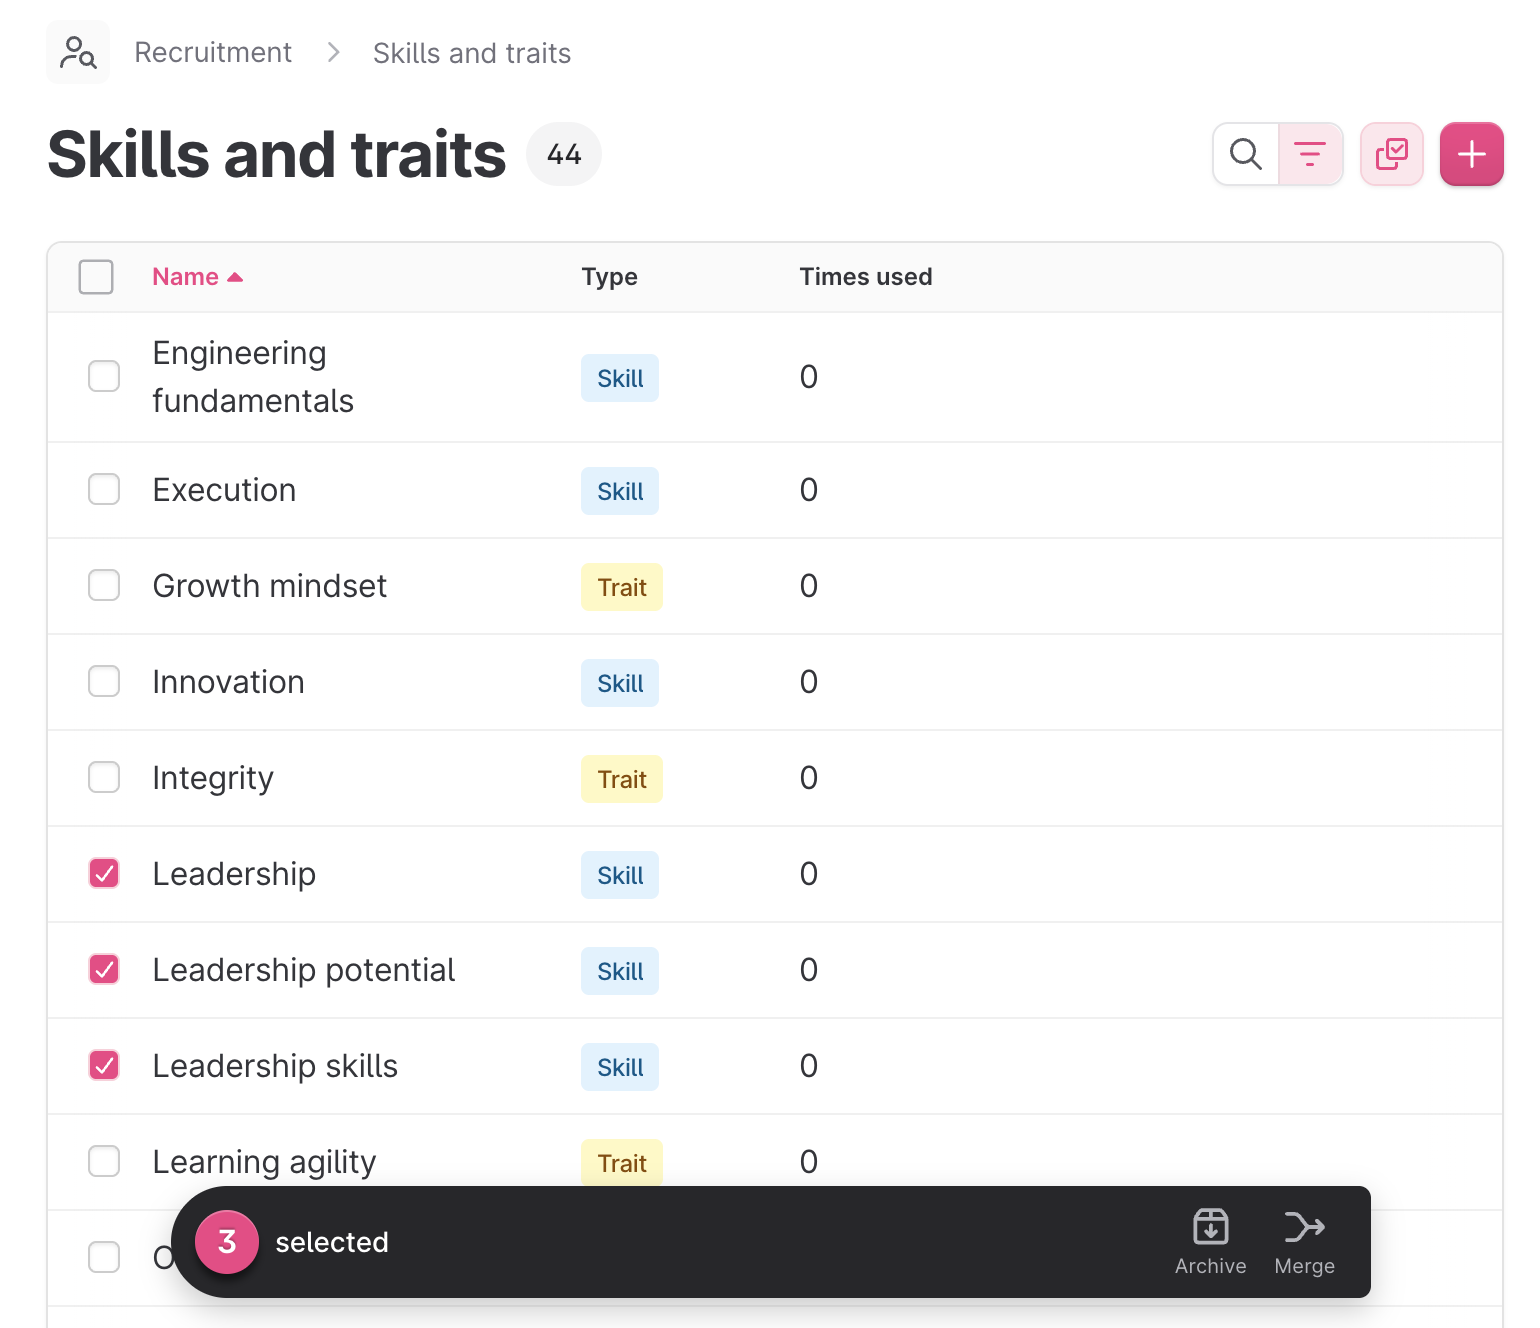
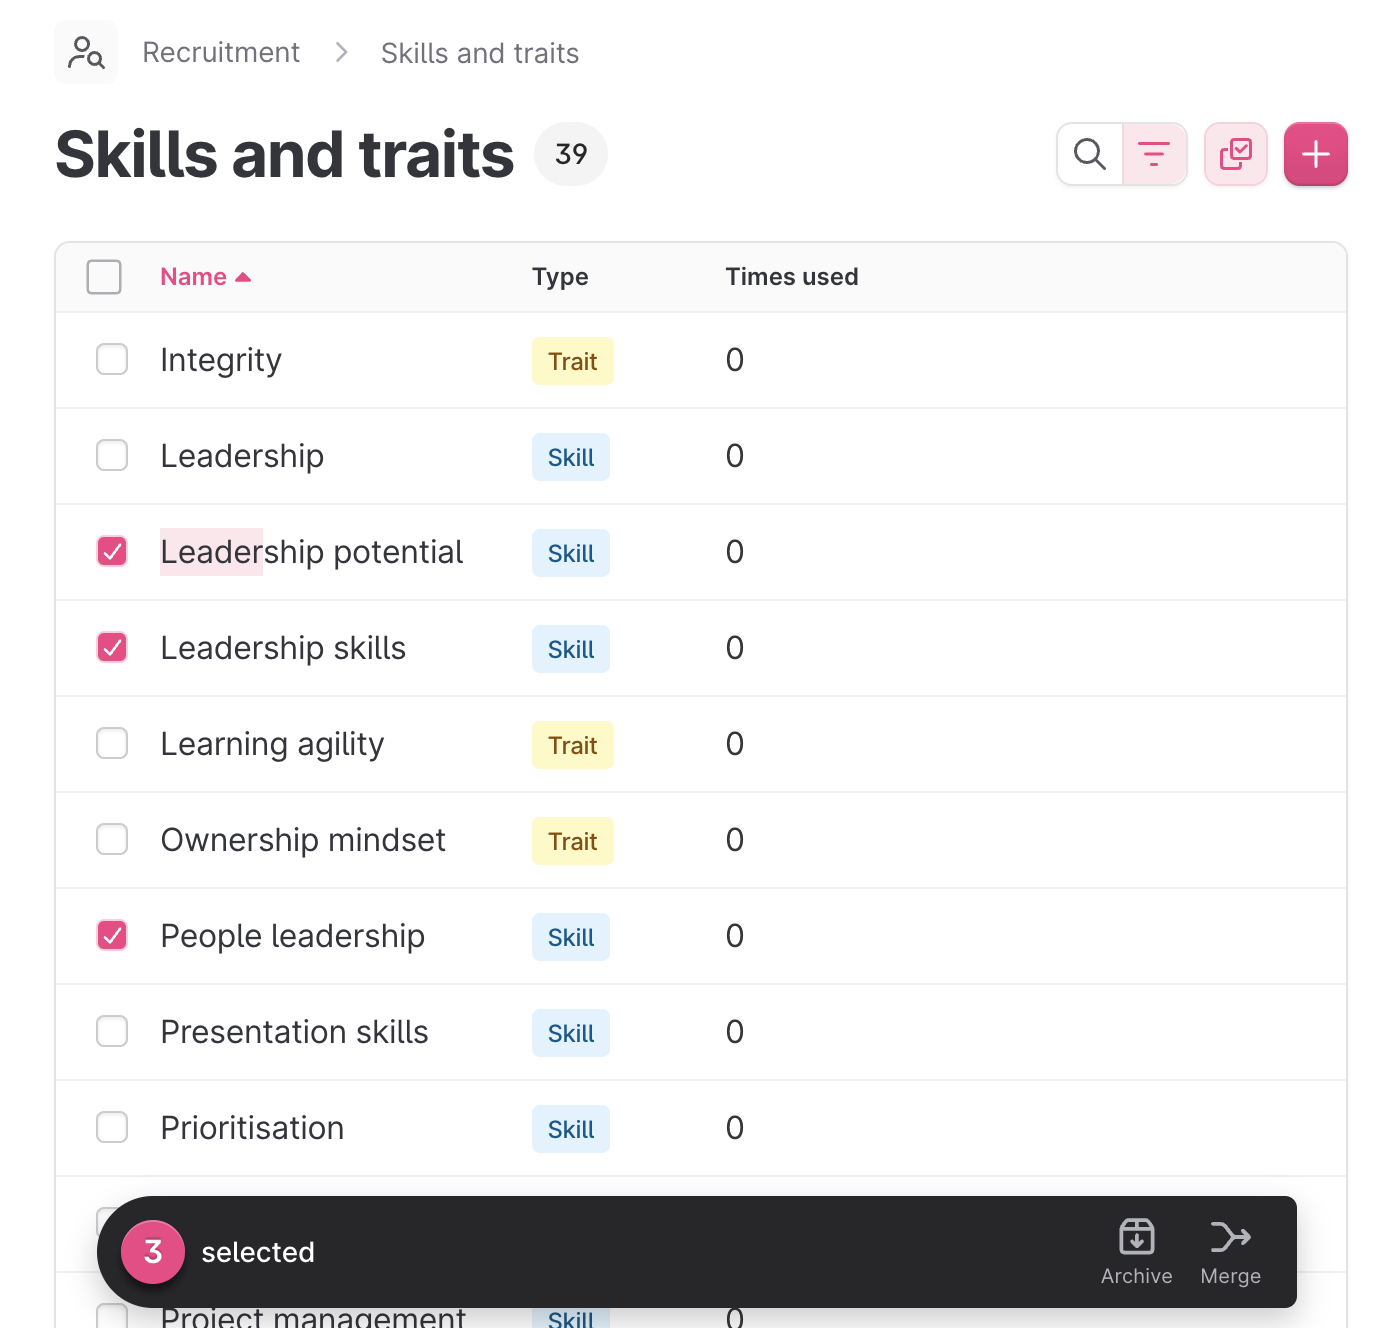
More merge and archive polish 4

diff --git a/presentations/merge-skills-and-traits/index.html b/presentations/merge-skills-and-traits/index.html
@@ -206,7 +206,7 @@
 
         <p class="demo-caption">
           Archived entries live on under the Archived filter. Unarchive any time and they're selectable again —
-          across candidates, roles, jobs, job templates and interview kits — exactly as they were.
+          across candidates, roles, jobs, job templates and interview kits — with their scoring history intact.
         </p>
 
         <p class="speaker-notes">
@@ -397,7 +397,7 @@
     <!-- ================================================================
          Merge demo 3 — the payoff
          ================================================================ -->
-    <section class="slide slide--accent" id="merge-after">
+    <section class="slide slide--dark" id="merge-after">
       <div class="slide-inner">
         <p class="chapter-label">Merge · step 3 of 3</p>
         <h2 class="slide-title">One entry. One honest count.</h2>
@@ -414,8 +414,8 @@
         </figure>
 
         <p class="demo-caption">
-          The three variants are gone. <strong>Leadership</strong> now reads <strong>12</strong> — the exact sum of
-          everything that used to be scattered across four rows.
+          The three variants are gone,
+          everything that used to be scattered across four rows is now whole.
         </p>
 
         <p class="speaker-notes">
@@ -443,14 +443,10 @@
         </p>
 
         <ul class="takeaways" style="margin-top: 1.5rem;">
-          <li><strong>Out of every picker.</strong> Archived entries vanish from candidates, roles, jobs, job templates
-            and interview kits, so scoring only ever offers what you actually use.</li>
-          <li><strong>Nothing destroyed.</strong> Every score and the full history stay attached — unlike delete, which
-            wiped them for good.</li>
-          <li><strong>Fully reversible.</strong> Unarchive any time and the entry comes back exactly as it was. There's
-            no equivalent "undo" for a deletion.</li>
-          <li><strong>Delete, gated.</strong> Permanent deletion is only reachable after archiving — a deliberate speed
-            bump that makes accidental data loss far harder.</li>
+          <li><strong>Out of the way, history intact.</strong> Archived entries leave every picker, but their scores
+            stay attached — unlike delete, which wiped them for good.</li>
+          <li><strong>Reversible, and delete is gated.</strong> Unarchive to bring an entry back, and permanent deletion
+            is now only reachable after archiving — a deliberate speed bump against accidental data loss.</li>
         </ul>
 
         <p class="speaker-notes">
@@ -479,14 +475,11 @@
         </p>
 
         <ul class="takeaways" style="margin-top: 1.5rem;">
-          <li><strong>One clean entry.</strong> Four near-duplicate rows become one in the picker — recruiters stop
-            guessing which "Leadership" to score against.</li>
-          <li><strong>Every record follows.</strong> Scores, picks, questions, candidate competencies and interview-kit
-            order all re-point to the survivor. Deleting the duplicates would have thrown that history away.</li>
-          <li><strong>The count finally adds up.</strong> "Times used" becomes the real combined total, so
-            competency analytics count one thing once instead of fragmenting it across duplicates.</li>
-          <li><strong>Better than leaving it.</strong> Ignoring the mess kept every report skewed; merge is the only
-            tool that makes the numbers honest.</li>
+          <li><strong>One clean entry, every record kept.</strong> Four near-duplicate rows become one, and the scores,
+            picks, questions and candidate competencies all re-point to the survivor — history that deleting would have
+            thrown away.</li>
+          <li><strong>The count finally adds up.</strong> "Times used" becomes the real combined total, so analytics
+            count one competency once instead of fragmenting it across duplicates.</li>
         </ul>
 
         <p class="speaker-notes">
@@ -516,7 +509,8 @@
           <div class="ddd-principle">
             <span class="ddd-principle-icon">🗄</span>
             <h3>Archive is a status flip</h3>
-            <p>The entry's scores stay exactly where they are; only its visibility changes. Reversible by design.</p>
+            <p>The entry's scoring history stays put — the entry just leaves the pickers, and unarchive brings it
+              back.</p>
           </div>
 
           <div class="ddd-principle">
@@ -543,141 +537,89 @@
 
       <nav class="slide-nav">
         <a href="#merge-benefits" class="nav-link">←</a>
-        <a href="#decisions-atomic" class="nav-link">→</a>
+        <a href="#decisions-integrity" class="nav-link">→</a>
       </nav>
     </section>
 
     <!-- ================================================================
-         Data integrity 1 — atomic job
+         Data integrity 1 — why a merge can't lose data
          ================================================================ -->
-    <section class="slide slide--dark" id="decisions-atomic">
+    <section class="slide slide--dark" id="decisions-integrity">
       <div class="slide-inner">
         <p class="chapter-label">Data integrity · 1</p>
-        <h2 class="slide-title">All-or-nothing, by construction</h2>
+        <h2 class="slide-title">Why a merge can't lose data</h2>
         <p class="slide-text">
-          A merge rewrites a lot of rows. If it half-finishes, the library is worse off than before it ran — so the
-          whole thing is one atomic transaction inside a single background job.
+          "Move a skill" is really "move everything attached to it, all at once." The merge is built so that either all
+          of it lands on the survivor, or nothing changes at all.
         </p>
 
         <ul class="takeaways" style="margin-top: 1.5rem;">
-          <li><strong>One transaction.</strong> Every affected record moves, or none do. There is no partial merge to clean up.</li>
-          <li><strong>Deadlock-safe locking.</strong> Rows are locked in a stable id order before any write, so two concurrent merges can never grab the same rows in opposite order.</li>
-          <li><strong>Bounded work.</strong> Capped at 50 sources and 5,000 affected records per merge — large enough for any real library, small enough to keep a worker comfortable. Anything bigger has a documented runbook.</li>
+          <li><strong>All-or-nothing.</strong> The whole merge runs as one transaction — there's never a half-merged
+            library to clean up afterwards.</li>
+          <li><strong>Everything follows the survivor.</strong> Scores, picks, questions, candidate competencies and
+            interview-kit order all re-point to the kept entry before the duplicates are removed.</li>
+          <li><strong>The count is the receipt.</strong> "Times used 12" only adds up if every record made the move — so
+            the number doubles as its own correctness check.</li>
         </ul>
 
         <p class="speaker-notes">
-          The deadlock-ordering detail is the kind of thing that only shows up under concurrency in production. Locking
-          in sorted id order is a small, deliberate choice that quietly removes a class of bug. The caps were tuned
-          down from an earlier, far higher ceiling once we understood the real worker cost.
+          This was the deepest part of the work. Under the hood it's five relation types reassigned inside a single
+          atomic transaction, with rows locked in a stable id order so two concurrent merges can't deadlock, and a
+          product-agreed rule to union conflicting questions onto the survivor rather than drop any. The caps (50
+          sources, 5,000 records) keep a worker comfortable; anything bigger has a runbook. For the audience, the
+          headline is simpler: it either fully works or doesn't run, and the count proves nothing was lost.
         </p>
       </div>
 
       <nav class="slide-nav">
         <a href="#di-principle" class="nav-link">←</a>
-        <a href="#decisions-cascade" class="nav-link">→</a>
-      </nav>
-    </section>
-
-    <!-- ================================================================
-         Data integrity 2 — the cascade
-         ================================================================ -->
-    <section class="slide slide--dark" id="decisions-cascade">
-      <div class="slide-inner">
-        <p class="chapter-label">Data integrity · 2</p>
-        <h2 class="slide-title">Nothing falls through the cracks</h2>
-        <p class="slide-text">
-          A skill isn't one row — it's the hub of a small graph. The merge re-points every spoke to the survivor before
-          the sources are removed.
-        </p>
-
-        <ul class="takeaways" style="margin-top: 1.5rem;">
-          <li><strong>Five relation types reassigned</strong> — scorecard picks, scores, candidate competencies, interview-kit ordering, and the questions attached to each criterium.</li>
-          <li><strong>Questions union onto the survivor.</strong> When sources carry conflicting questions, the product rule is to keep them all on the winner rather than silently dropping any — a decision settled with product, not invented in code.</li>
-          <li><strong>The count is the receipt.</strong> "Times used 12" is only correct if every spoke followed the merge. The number doubling as a correctness check is why the demo lands.</li>
-        </ul>
-
-        <p class="speaker-notes">
-          This was the deepest part of the work. "Move a skill" sounds like one update; it's five relationships with
-          their own edge cases, plus a product call on conflicting questions. Getting the union rule pinned down with
-          product up front is why there was no guesswork in the implementation.
-        </p>
-      </div>
-
-      <nav class="slide-nav">
-        <a href="#decisions-atomic" class="nav-link">←</a>
         <a href="#decisions-safety" class="nav-link">→</a>
       </nav>
     </section>
 
     <!-- ================================================================
-         Data integrity 3 — tenant safety + guards
+         Data integrity 2 — safe to switch on for everyone
          ================================================================ -->
     <section class="slide slide--dark" id="decisions-safety">
       <div class="slide-inner">
-        <p class="chapter-label">Data integrity · 3</p>
-        <h2 class="slide-title">Safe to expose, hard to misuse</h2>
+        <p class="chapter-label">Data integrity · 2</p>
+        <h2 class="slide-title">Safe to switch on for everyone</h2>
 
         <div class="ddd-principles">
           <div class="ddd-principle">
             <span class="ddd-principle-icon">🏢</span>
-            <h3>Tenant-safe by design</h3>
-            <p>The job re-scopes the source ids to the company at run time, so a crafted id from another tenant simply isn't in scope to delete. Cross-tenant damage is unreachable, not just unlikely.</p>
+            <h3>Stays inside the company</h3>
+            <p>A merge can only ever touch one customer's own data — reaching another tenant's entries isn't possible,
+              not just unlikely.</p>
           </div>
 
           <div class="ddd-principle">
             <span class="ddd-principle-icon">🚫</span>
             <h3>Guard rails</h3>
-            <p>A self-merge guard, and an active-into-active rule — a late product change means you unarchive before you merge, so an archived entry can't be revived as a side effect.</p>
+            <p>You can't merge an entry into itself, and archived entries must be unarchived first — so nothing gets
+              revived or merged by accident.</p>
           </div>
 
           <div class="ddd-principle">
-            <span class="ddd-principle-icon">🔐</span>
-            <h3>Gated rollout</h3>
-            <p>A Flipper flag plus a policy check that reuses the existing destroy permission — no new permission surface to reason about, and a clean on/off switch for release.</p>
+            <span class="ddd-principle-icon">📝</span>
+            <h3>Audited &amp; gated</h3>
+            <p>Every merge is written to the audit trail, and the whole feature sits behind a flag for a controlled,
+              reversible rollout.</p>
           </div>
         </div>
 
         <p class="speaker-notes">
-          The tenant-safety framing is the one to dwell on: it's not "we validate ownership," it's "the dangerous
-          operation can't see another tenant's rows in the first place." Re-scoping at run time turns a potential
-          security review finding into a non-event. Reusing destroy? for the policy means we didn't invent a new
-          permission model for a destructive action.
+          The tenant-safety framing is the one to dwell on: the job re-scopes source ids to the company at run time, so
+          a crafted id from another tenant simply isn't in scope — a potential security finding turned into a non-event.
+          The policy reuses the existing destroy permission, so there's no new permission model. And side effects
+          (insights re-tracking, search reindex, Job Match Score recompute) fire after the transaction commits, so
+          downstream systems never point at a deleted id. The audit record is the recovery surface if a merge ever
+          needs to be traced.
         </p>
       </div>
 
       <nav class="slide-nav">
-        <a href="#decisions-cascade" class="nav-link">←</a>
-        <a href="#decisions-recovery" class="nav-link">→</a>
-      </nav>
-    </section>
-
-    <!-- ================================================================
-         Data integrity 4 — recovery + downstream
-         ================================================================ -->
-    <section class="slide slide--dark" id="decisions-recovery">
-      <div class="slide-inner">
-        <p class="chapter-label">Data integrity · 4</p>
-        <h2 class="slide-title">Auditable, and consistent downstream</h2>
-        <p class="slide-text">
-          Merged sources are hard-deleted — but never without a trace, and never leaving stale data behind them.
-        </p>
-
-        <ul class="takeaways" style="margin-top: 1.5rem;">
-          <li><strong>Audit event per merge.</strong> Every merge writes a <code>merge</code> audit record naming the survivor and the sources — the designated recovery surface if a merge ever needs to be understood after the fact.</li>
-          <li><strong>Insights re-tracked.</strong> Tracking is deferred and de-duplicated, then fired after the transaction commits, so reporting reflects the consolidated competency rather than the deleted ones.</li>
-          <li><strong>Search &amp; match stay current.</strong> Candidate search reindexes and Job Match Scores recompute, so downstream systems never point at an id that no longer exists.</li>
-        </ul>
-
-        <p class="speaker-notes">
-          The pattern worth calling out: side effects fire <em>after</em> the transaction commits, not during it.
-          Re-tracking insights or reindexing search mid-transaction would either run against half-merged data or get
-          rolled back. Deferring them to after-commit is what keeps the atomic guarantee and the downstream systems
-          consistent at the same time.
-        </p>
-      </div>
-
-      <nav class="slide-nav">
-        <a href="#decisions-safety" class="nav-link">←</a>
+        <a href="#decisions-integrity" class="nav-link">←</a>
         <a href="#resources" class="nav-link">→</a>
       </nav>
     </section>
@@ -709,7 +651,7 @@
       </div>
 
       <nav class="slide-nav">
-        <a href="#decisions-recovery" class="nav-link">←</a>
+        <a href="#decisions-safety" class="nav-link">←</a>
         <span class="nav-disabled">→</span>
       </nav>
     </section>
